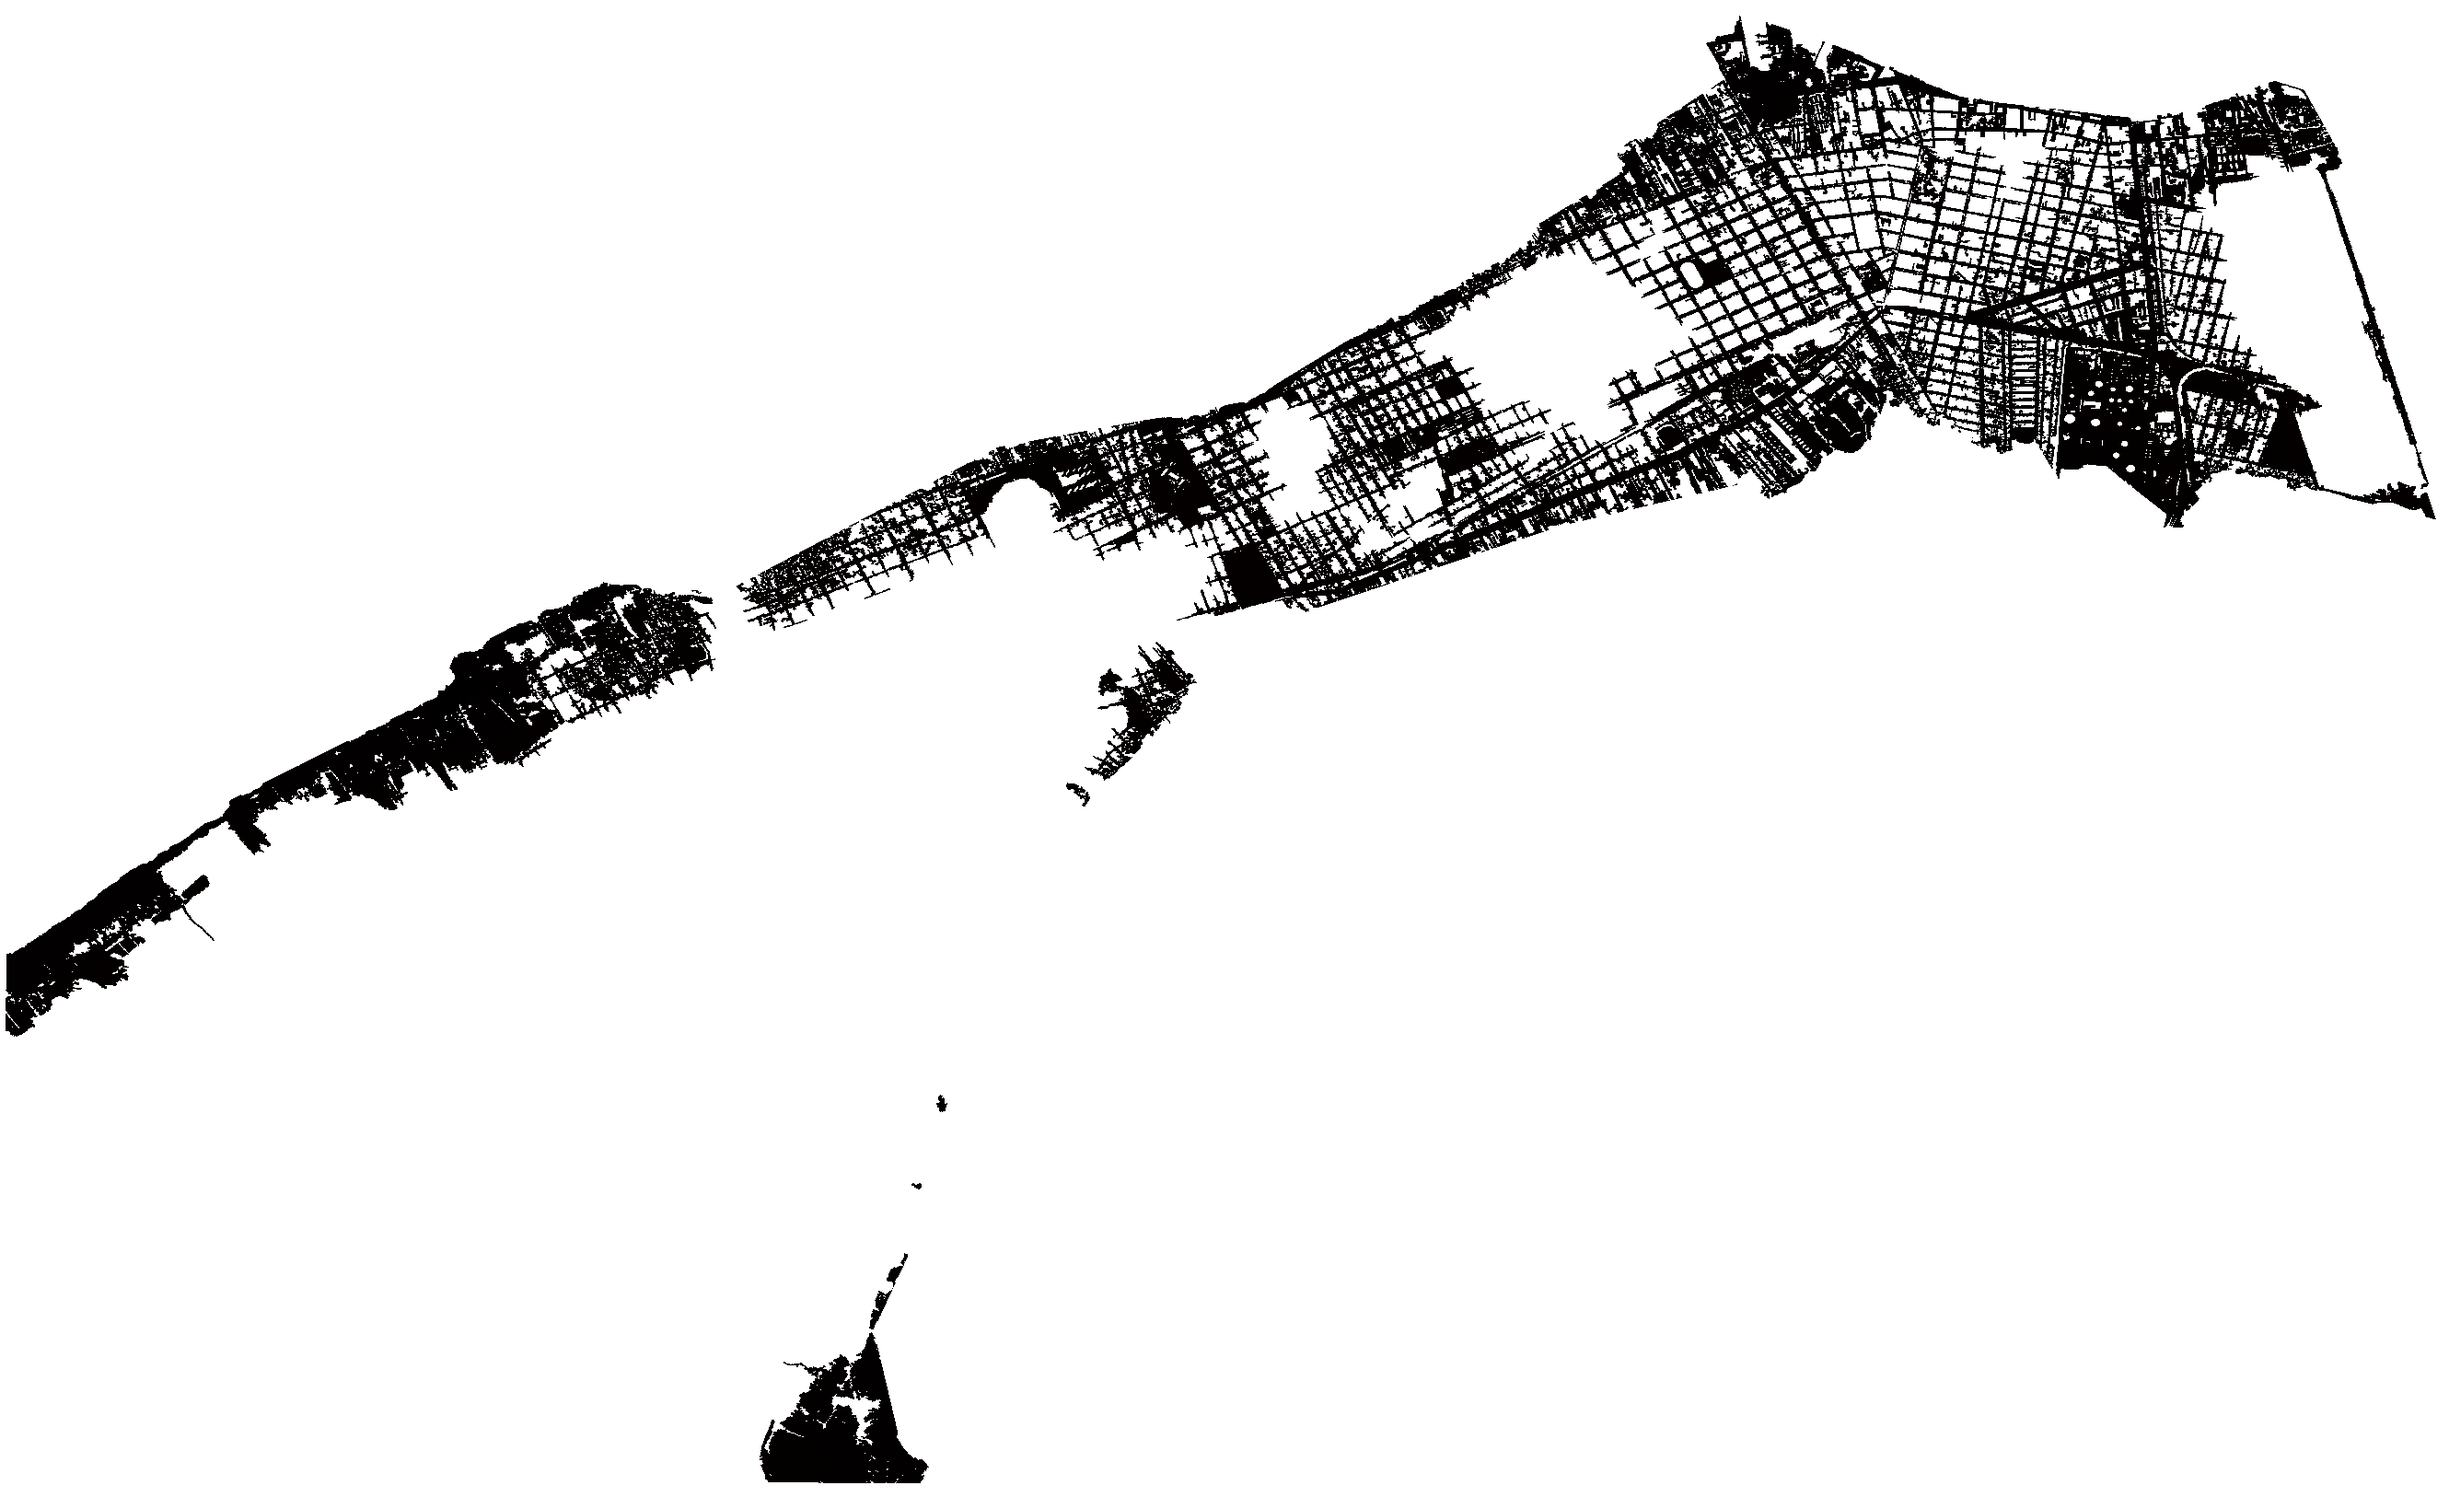
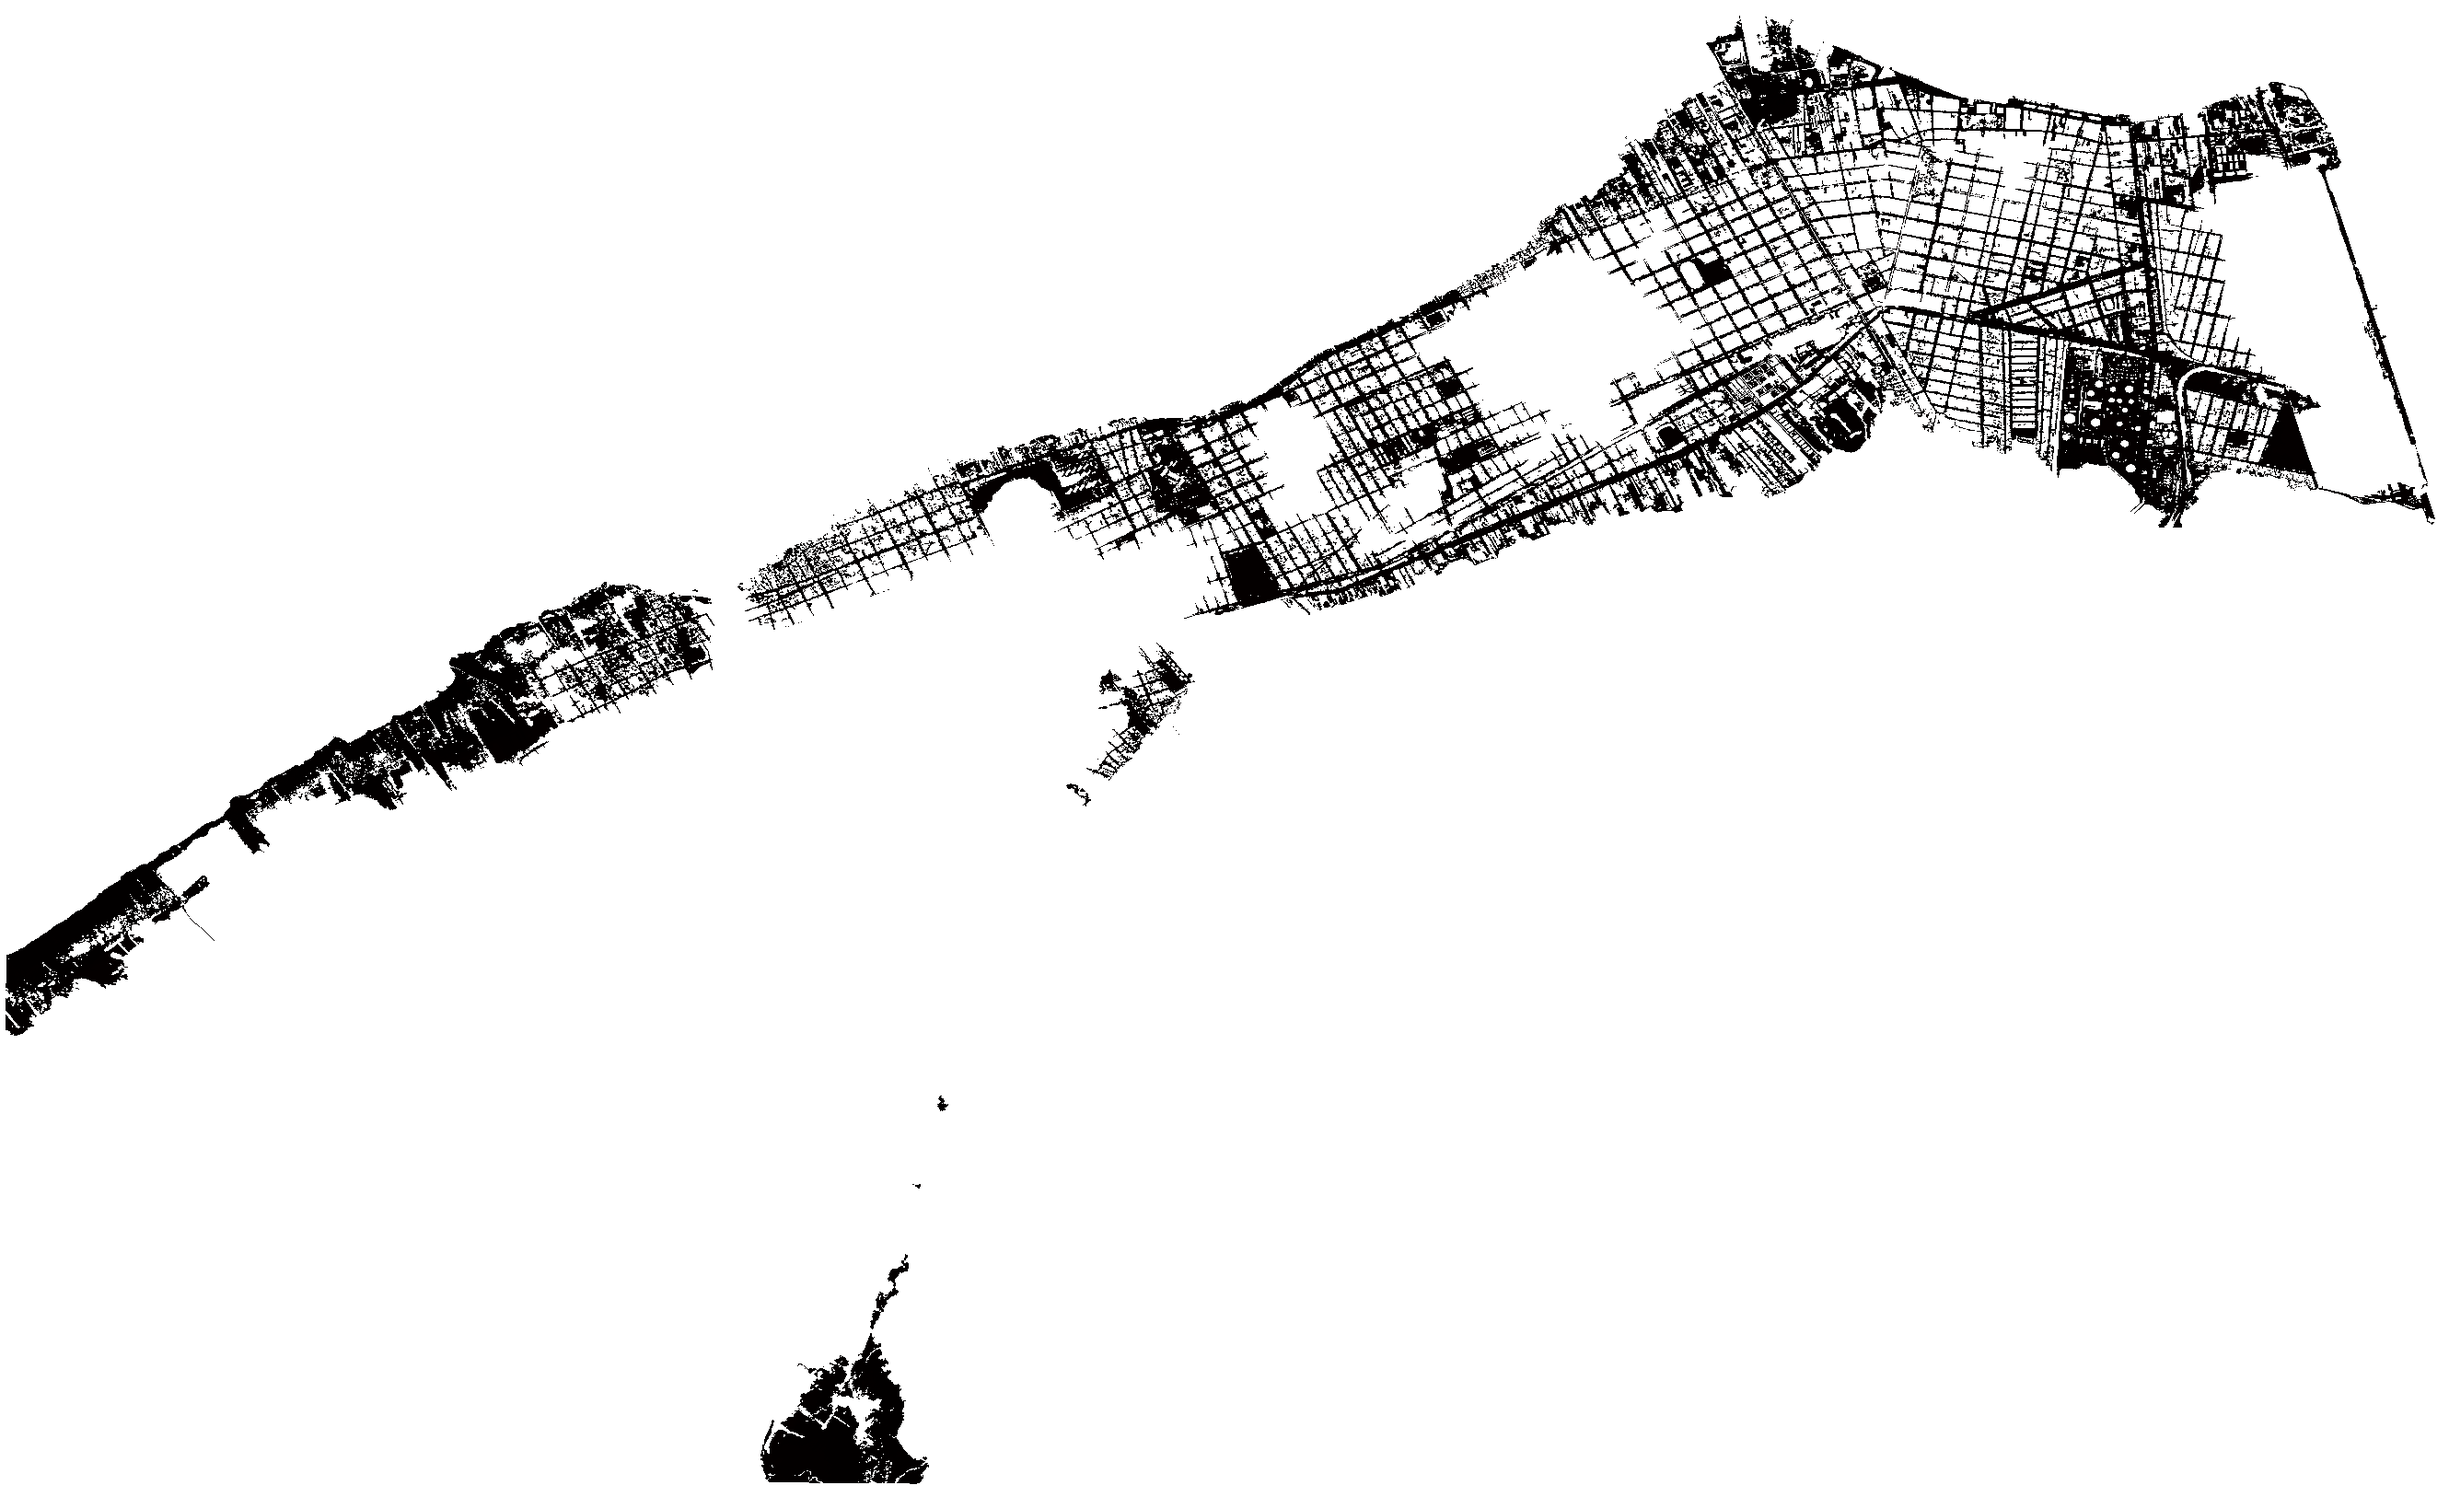
feat(populacao): recalcula populacao por cota para Rio Grande usando WorldPop 2024 e afasta filtros

diff --git a/components/AnalysisPanel.tsx b/components/AnalysisPanel.tsx
@@ -118,15 +118,18 @@ export function AnalysisPanel({ dash }: AnalysisPanelProps) {
   const popCenData = (() => {
     if (popMunData && cotasAtivo) {
       const atg = popAtingidaNaCota(cotaRaster.meta, cotaRaster.cota)
-      return atg === null
-        ? null
-        : {
-            pop_atingida: atg,
-            pct_atingida:
-              popMunData.pop_total > 0
-                ? (100 * atg) / popMunData.pop_total
-                : 0,
-          }
+      if (atg !== null) {
+        return {
+          pop_atingida: atg,
+          pct_atingida:
+            popMunData.pop_total > 0
+              ? (100 * atg) / popMunData.pop_total
+              : 0,
+        }
+      }
+      const fallback = findCenarioData(popMunData.cenarios, cenario)
+      if (fallback) return fallback
+      return null
     }
     if (!popMunData || !cenario || cenario === "(nenhum)") return null
     return findCenarioData(popMunData.cenarios, cenario)

diff --git a/components/FiltersPanel.tsx b/components/FiltersPanel.tsx
@@ -73,7 +73,7 @@ export function FiltersPanel({ dash }: FiltersPanelProps) {
   const [abertoFiltros, setAbertoFiltros] = React.useState(false)
 
   // Espaço extra para não sobrepor os tooltips das camadas na barra superior
-  const topFiltros = headerBottom + 26
+  const topFiltros = headerBottom + 36
 
   // O popover nasce aberto (descobribilidade) e se recolhe sozinho uma vez em 6 s,
   // a menos que a pessoa interaja com ele antes. Trocar de município, cenário ou reiniciar reabre.
